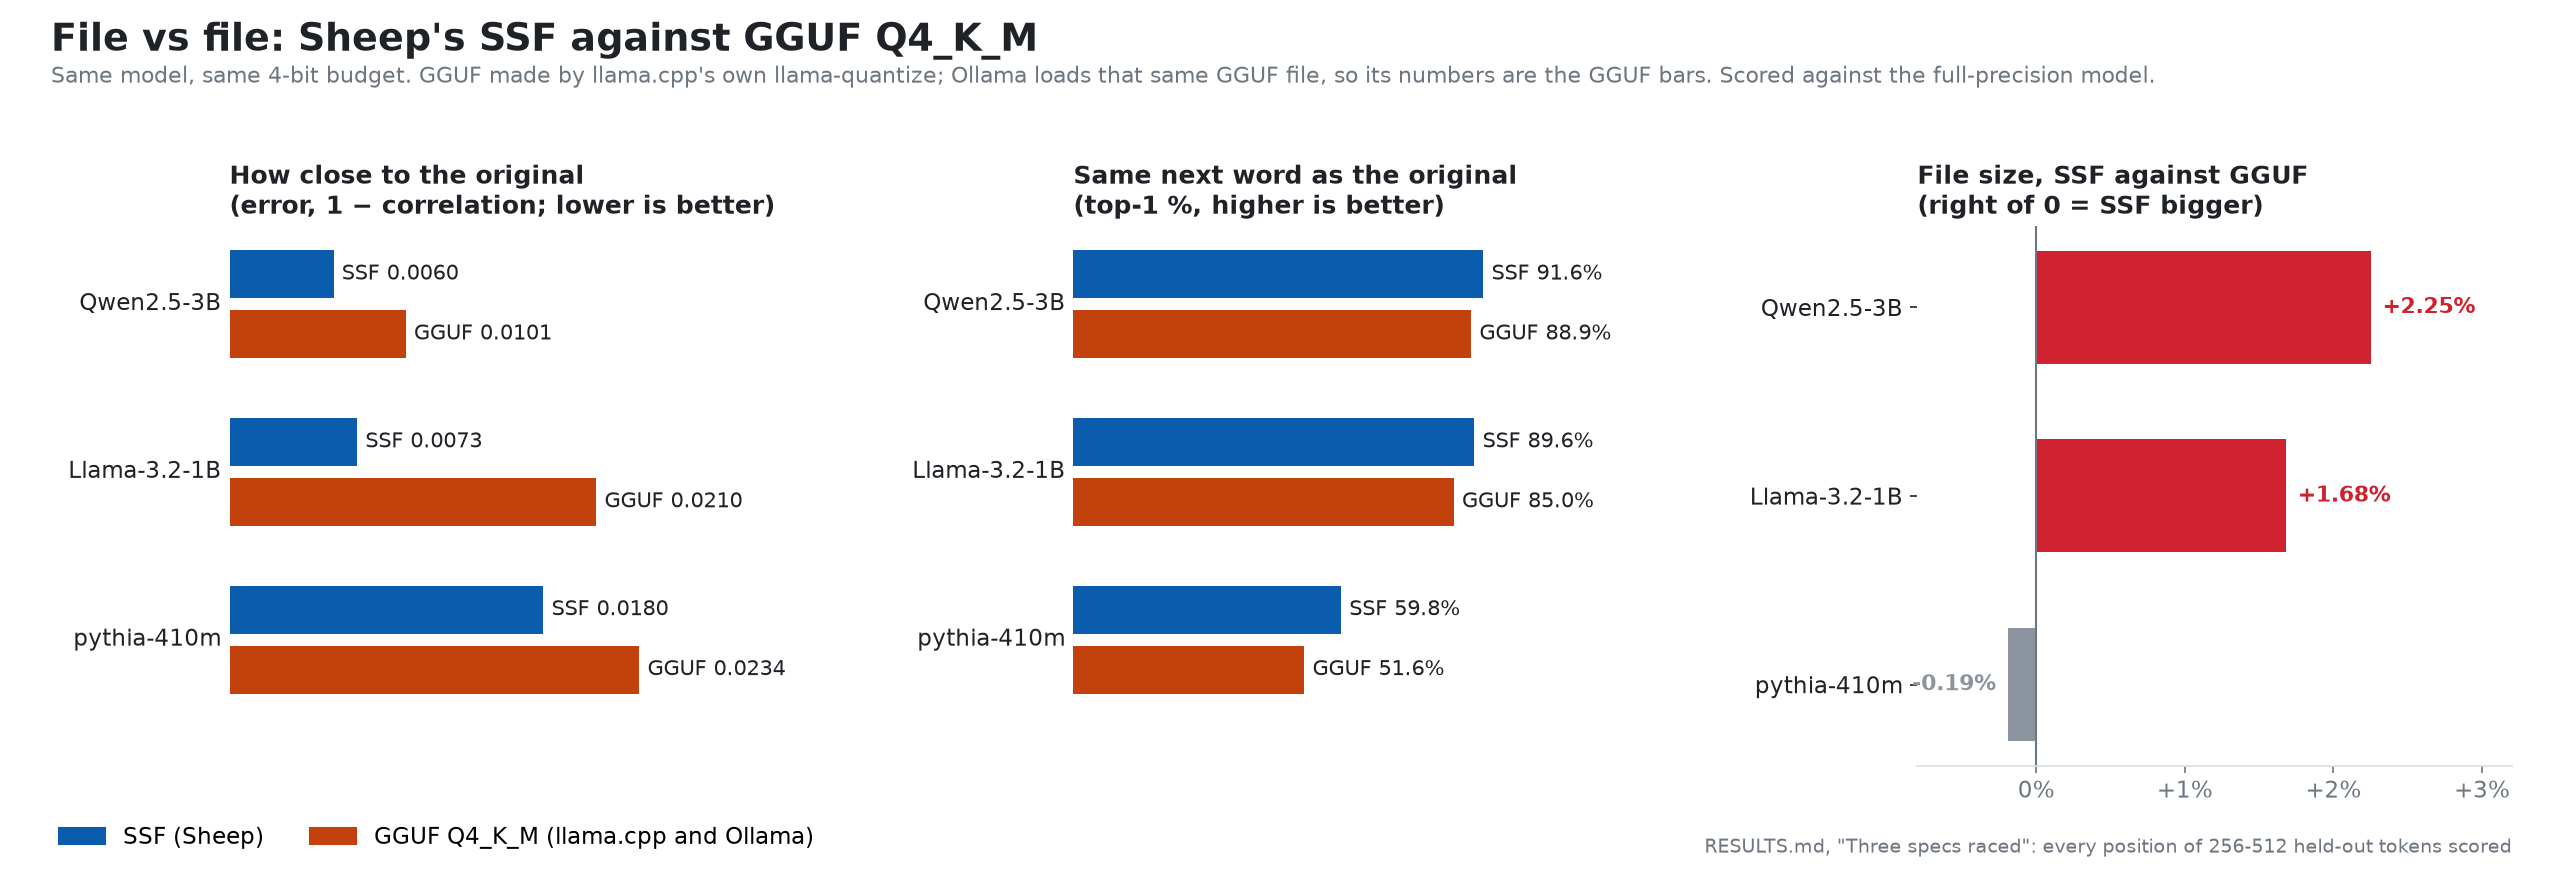
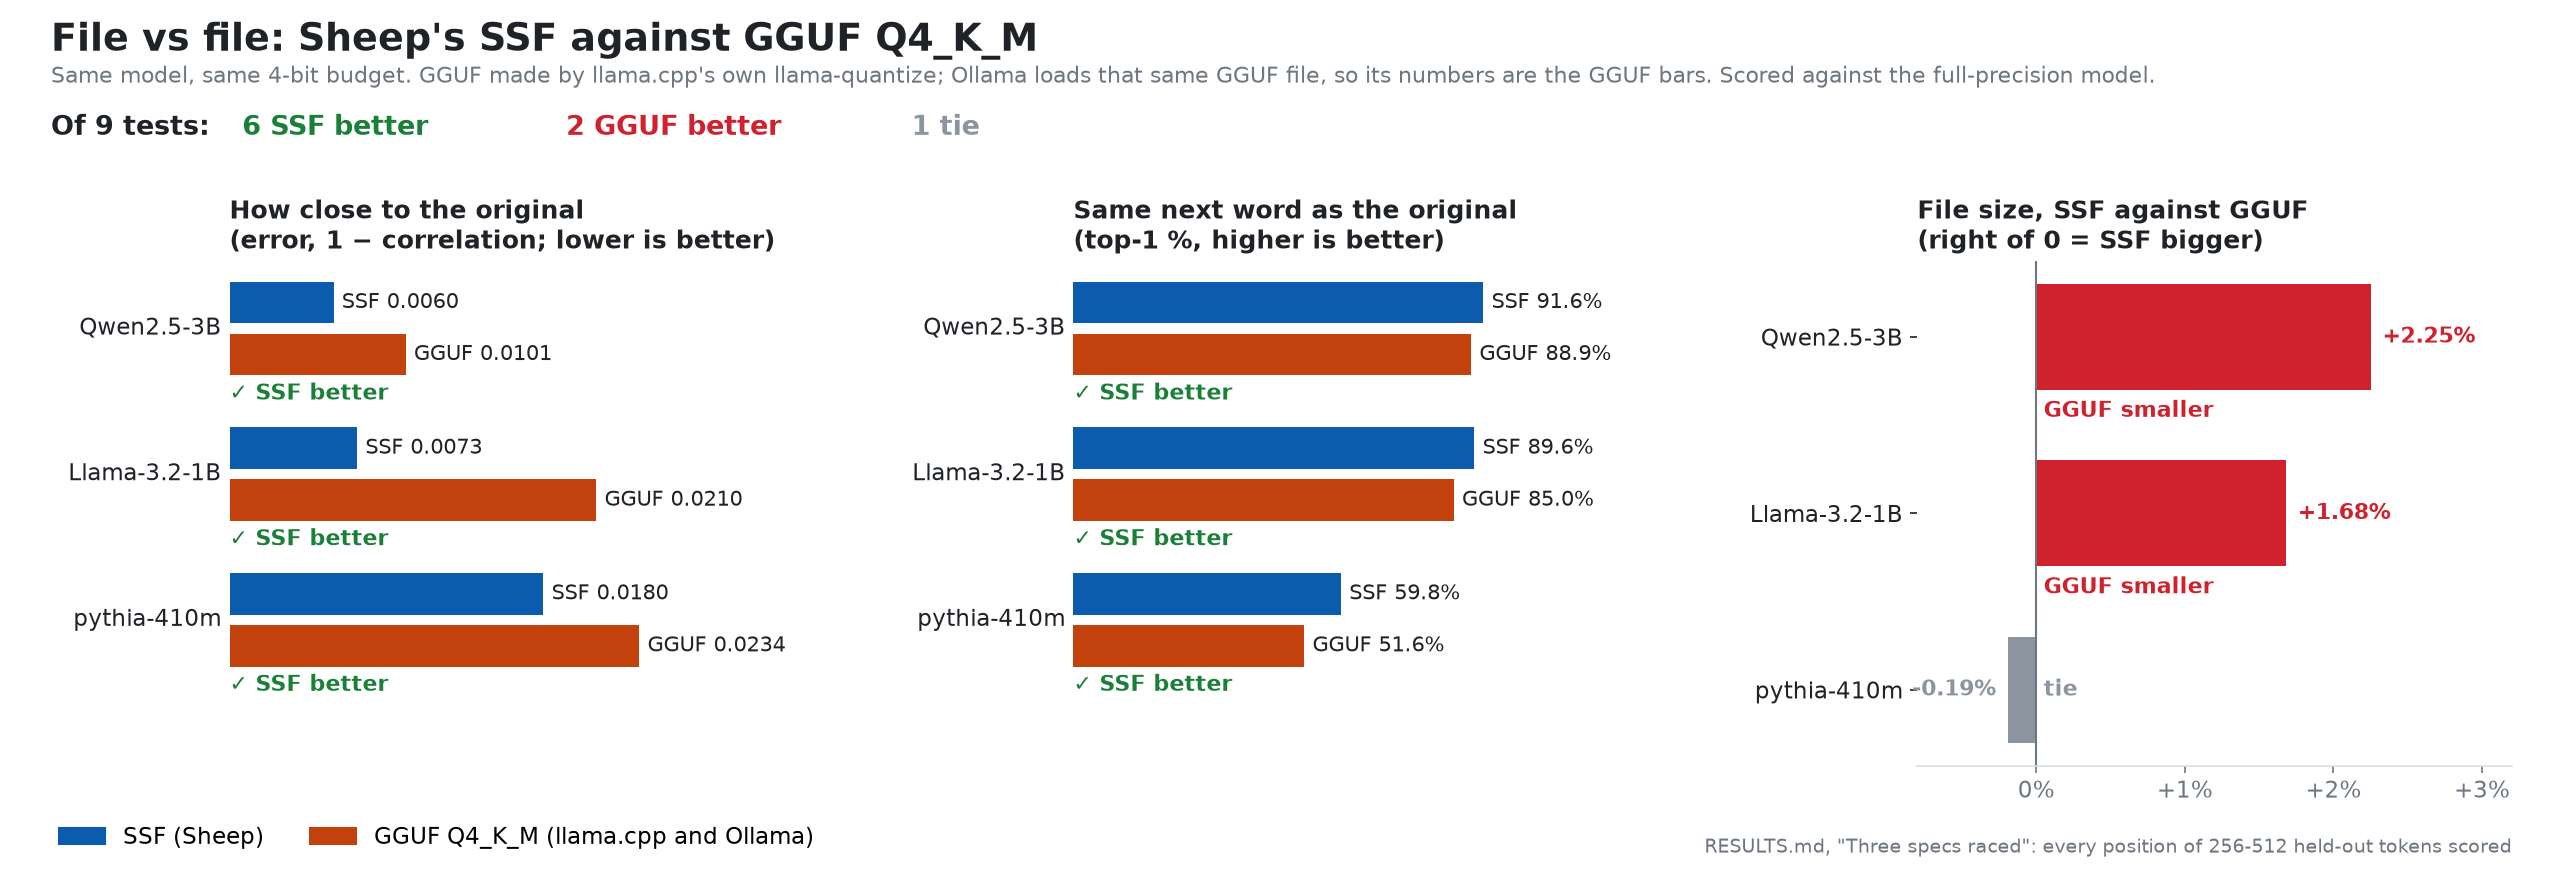
Benchmark graphs: who is better on every test, and a score line on each

diff --git a/tooling/benchmark_charts.py b/tooling/benchmark_charts.py
@@ -72,6 +72,17 @@ def head(fig, title, sub):
     fig.text(0.02, 0.905, sub, fontsize=10.5, color=MUTED)
 
 
+def score(fig, parts, n):
+    """The verdict in one line under the title: how many of the n tests each side won."""
+    x = 0.02
+    fig.text(x, 0.845, f"Of {n} tests:", fontsize=13, color=INK, fontweight="bold")
+    x += 0.075
+    for word, k, col in parts:
+        t = f"{k} {word}{'s' if word == 'tie' and k != 1 else ''}"
+        fig.text(x, 0.845, t, fontsize=13, color=col, fontweight="bold")
+        x += 0.0085 * len(t) + 0.025
+
+
 def save(fig, out, name):
     p = Path(out) / name
     p.parent.mkdir(parents=True, exist_ok=True)
@@ -81,41 +92,51 @@ def save(fig, out, name):
 
 
 def pair_bars(ax, title, rival, rival_col, metric, unit, higher_better=True, fmt="{:.0f}"):
-    """Two devices, two bars each: Sheep and the rival. The winner's number is bold."""
+    """Two devices, two bars each: Sheep and the rival, with who is better written under them.
+    Speeds within 2% are a tie (the runs vary that much); answers right tie only when equal."""
+    wins = []
     for i, dev in enumerate(("gpu", "cpu")):
         s, r = MARKET["Sheep"][dev][metric], MARKET[rival][dev][metric]
         top = max(s, r)
-        for j, (v, col, who) in enumerate(((s, SHEEP, "Sheep"), (r, rival_col, rival))):
+        edge = (s / r - 1) if higher_better else (r / s - 1)
+        close = s == r if metric == 2 else abs(edge) < 0.02
+        who = "tie" if close else "Sheep" if edge > 0 else rival
+        wins.append(who)
+        for j, (v, col) in enumerate(((s, SHEEP), (r, rival_col))):
             y = i * 2.6 + j
             ax.barh(y, v, height=0.8, color=col)
-            better = (v >= (r if who == "Sheep" else s)) if higher_better else (v <= (r if who == "Sheep" else s))
-            ax.text(v + top * 0.02, y, f"{fmt.format(v)} {unit}", va="center", fontsize=10.5, color=INK,
-                    fontweight="bold" if better else "normal")
+            ax.text(v + top * 0.02, y, f"{fmt.format(v)} {unit}", va="center", fontsize=10.5, color=INK)
+        word, c = (("Tie", TIE) if who == "tie" else (f"✓ Sheep better", WIN) if who == "Sheep"
+                   else (f"{rival} better", LOSS))
+        ax.text(0, i * 2.6 + 1.75, word, va="center", fontsize=11, color=c, fontweight="bold")
         ax.text(-top * 0.02, i * 2.6 + 0.5, dev.upper(), va="center", ha="right", fontsize=11, color=INK,
                 fontweight="bold")
     ax.set_xlim(0, max(max(MARKET[e][d][metric] for d in ("gpu", "cpu")) for e in ("Sheep", rival)) * 1.45)
-    ax.set_ylim(4.2, -0.8)
+    ax.set_ylim(4.9, -0.8)
     ax.set_yticks([])
     ax.set_xticks([])
     clean(ax)
     ax.set_title(title, loc="left", fontsize=12, color=INK, fontweight="bold")
+    return wins
 
 
 def versus(out, rival, col, name):
     fig, axes = plt.subplots(1, 4, figsize=(17, 5.6), facecolor=BG)
     head(fig, f"Sheep vs {rival}",
-         f"{MACHINE}. Bold = better. {rival} runs the GGUF Q4_K_M file; Sheep runs its own SSF file.")
-    pair_bars(axes[0], "Reading the prompt\n(tokens a second, higher is better)", rival, col, 0, "tok/s")
-    pair_bars(axes[1], "Writing the answer\n(tokens a second, higher is better)", rival, col, 1, "tok/s",
-              fmt="{:.1f}")
-    pair_bars(axes[2], "Hard questions right\n(of 40: maths, code, facts, format)", rival, col, 2, "/ 40")
-    pair_bars(axes[3], "Start-up, ready to answer\n(seconds, lower is better)", rival, col, 3, "s",
-              higher_better=False, fmt="{:.1f}")
+         f"{MACHINE}. {rival} runs the GGUF Q4_K_M file; Sheep runs its own SSF file.")
+    wins = pair_bars(axes[0], "Reading the prompt\n(tokens a second, higher is better)", rival, col, 0, "tok/s")
+    wins += pair_bars(axes[1], "Writing the answer\n(tokens a second, higher is better)", rival, col, 1, "tok/s",
+                      fmt="{:.1f}")
+    wins += pair_bars(axes[2], "Hard questions right\n(of 40: maths, code, facts, format)", rival, col, 2, "/ 40")
+    wins += pair_bars(axes[3], "Start-up, ready to answer\n(seconds, lower is better)", rival, col, 3, "s",
+                      higher_better=False, fmt="{:.1f}")
+    score(fig, [("Sheep better", wins.count("Sheep"), WIN), (f"{rival} better", wins.count(rival), LOSS),
+                ("tie", wins.count("tie"), TIE)], len(wins))
     fig.legend(handles=[plt.Rectangle((0, 0), 1, 1, color=SHEEP), plt.Rectangle((0, 0), 1, 1, color=col)],
                labels=["Sheep", rival], loc="lower left", ncol=2, frameon=False, bbox_to_anchor=(0.015, 0.0))
     fig.text(0.985, 0.02, "tooling/market_race.py · median of 5 runs · 40 questions at temperature 0",
              ha="right", fontsize=9, color=MUTED)
-    fig.subplots_adjust(left=0.05, right=0.985, top=0.74, bottom=0.1, wspace=0.28)
+    fig.subplots_adjust(left=0.05, right=0.985, top=0.72, bottom=0.1, wspace=0.28)
     save(fig, out, name)
 
 
@@ -125,12 +146,14 @@ def engines(out):
          "GGML is the engine inside llama.cpp and Ollama. Same machine, same model, same 4-bit budget. "
          "Right of the line = SML faster.")
     ys = list(range(len(ENGINE_RACES)))[::-1]
+    tally = []
     for y, (n, r, lo, hi) in zip(ys, ENGINE_RACES):
         c = WIN if lo > 1 else LOSS if hi < 1 else TIE
         a.plot([lo, hi], [y, y], color=c, lw=8, alpha=0.35, solid_capstyle="round")
         a.plot([r], [y], "o", color=c, ms=10, mec=BG, mew=1.5)
-        word = "SML faster" if c == WIN else "GGML faster" if c == LOSS else "tie"
+        word = "✓ SML better" if c == WIN else "GGML better" if c == LOSS else "tie"
         a.text(1.49, y, f"{r:.2f}×  {word}", va="center", fontsize=10.5, color=c, fontweight="bold")
+        tally.append(c)
     a.axvline(1.0, color=MUTED, lw=1, ls=(0, (4, 3)))
     a.set_yticks(ys, [n for n, *_ in ENGINE_RACES])
     a.set_xlim(0.9, 1.75)
@@ -150,19 +173,23 @@ def engines(out):
             y = i * 2.8 + j
             c = WIN if r > 1.02 else LOSS if r < 0.98 else TIE
             b.barh(y, r - 1, left=1, height=0.8, color=col, alpha=0.85)
-            b.text(max(r, 1) + 0.012, y, f"{r:.2f}× vs GGML in {eng}", va="center", fontsize=10, color=c,
+            word = "✓ SML better" if c == WIN else "GGML better" if c == LOSS else "tie"
+            b.text(max(r, 1) + 0.012, y, f"{r:.2f}× vs {eng}: {word}", va="center", fontsize=10, color=c,
                    fontweight="bold")
+            tally.append(c)
         b.text(0.795, i * 2.8 + 0.5, n, va="center", ha="right", fontsize=11, color=INK)
     b.axvline(1.0, color=MUTED, lw=1, ls=(0, (4, 3)))
-    b.set_xlim(0.8, 1.45)
+    b.set_xlim(0.8, 1.62)
     b.set_ylim(11, -0.8)
     b.set_yticks([])
     b.set_xticks([0.8, 0.9, 1.0, 1.1, 1.2], ["0.8×", "0.9×", "1.0×", "1.1×", "1.2×"])
     clean(b, keep_bottom=True)
     b.set_title("As whole servers\n(SML speed ÷ GGML's; 710-token prompt)", loc="left", fontsize=12, color=INK, fontweight="bold")
+    score(fig, [("SML better", tally.count(WIN), WIN), ("GGML better", tally.count(LOSS), LOSS),
+                ("tie", tally.count(TIE), TIE)], len(tally))
     fig.text(0.02, 0.02, "Left: tooling/sml_cpu_race_ci.py, sml_gpu_race_ci.py. Right: tooling/market_race.py. "
              "Grey = within 2%, a tie.", fontsize=9, color=MUTED)
-    fig.subplots_adjust(left=0.17, right=0.985, top=0.76, bottom=0.1, wspace=0.42)
+    fig.subplots_adjust(left=0.17, right=0.985, top=0.71, bottom=0.1, wspace=0.42)
     save(fig, out, "sml_vs_ggml.png")
 
 
@@ -186,8 +213,9 @@ def formats(out):
                 ax.barh(y, v, height=0.8, color=col)
                 ax.text(v + top * 0.02, y, f"{lab} {fmt.format(v)}", va="center", fontsize=10, color=INK)
             ax.text(-top * 0.02, i * 2.8 + 0.5, f[0], va="center", ha="right", fontsize=11, color=INK)
+            ax.text(0, i * 2.8 + 1.75, "✓ SSF better", va="center", fontsize=10.5, color=WIN, fontweight="bold")
         ax.set_xlim(0, top * 1.45)
-        ax.set_ylim(8.2, -0.8)
+        ax.set_ylim(8.9, -0.8)
         ax.set_yticks([])
         ax.set_xticks([])
         clean(ax)
@@ -199,6 +227,8 @@ def formats(out):
         c.barh(i, (r - 1) * 100, height=0.6, color=col)
         c.text((r - 1) * 100 + (0.08 if r >= 1 else -0.08), i, f"{(r - 1) * 100:+.2f}%", va="center",
                ha="left" if r >= 1 else "right", fontsize=10.5, color=col, fontweight="bold")
+        c.text(0.05, i + (0.42 if col == LOSS else 0), "GGUF smaller" if col == LOSS else "tie", va="center", ha="left", fontsize=10.5,
+               color=col, fontweight="bold")
     c.axvline(0, color=MUTED, lw=1)
     c.set_yticks(range(len(FORMAT)), names)
     c.invert_yaxis()
@@ -210,9 +240,12 @@ def formats(out):
     fig.legend(handles=[plt.Rectangle((0, 0), 1, 1, color=SHEEP), plt.Rectangle((0, 0), 1, 1, color=LLAMA)],
                labels=["SSF (Sheep)", "GGUF Q4_K_M (llama.cpp and Ollama)"], loc="lower left", ncol=2,
                frameon=False, bbox_to_anchor=(0.015, 0.0))
+    size_l = sum(f[3] > 1.002 for f in FORMAT)
+    score(fig, [("SSF better", 2 * len(FORMAT), WIN), ("GGUF better", size_l, LOSS),
+                ("tie", len(FORMAT) - size_l, TIE)], 3 * len(FORMAT))
     fig.text(0.985, 0.02, "RESULTS.md, \"Three specs raced\": every position of 256-512 held-out tokens scored",
              ha="right", fontsize=9, color=MUTED)
-    fig.subplots_adjust(left=0.09, right=0.985, top=0.74, bottom=0.12, wspace=0.42)
+    fig.subplots_adjust(left=0.09, right=0.985, top=0.7, bottom=0.12, wspace=0.42)
     save(fig, out, "ssf_vs_gguf.png")
 
 
@@ -252,6 +285,10 @@ def features(out):
             ax.text(6.4 + j * 1.6, y, sym, va="center", ha="center", fontsize=17, color=col, fontweight="bold")
     for j, (name, col) in enumerate(cols):
         ax.text(6.4 + j * 1.6, n - 0.1, name, ha="center", va="bottom", fontsize=12.5, color=col, fontweight="bold")
+    lead = sum(m[0] == "yes" and "yes" not in m[1:] for _, *m in FEATURES)
+    behind = sum(m[0] != "yes" and "yes" in m[1:] for _, *m in FEATURES)
+    fig.text(0.02, 0.86, f"Sheep alone has {lead} of these {len(FEATURES)}. The others are ahead on {behind}.",
+             fontsize=13, color=WIN, fontweight="bold")
     ax.set_xlim(0, 10.6)
     ax.set_ylim(-0.7, n + 0.6)
     ax.axis("off")
